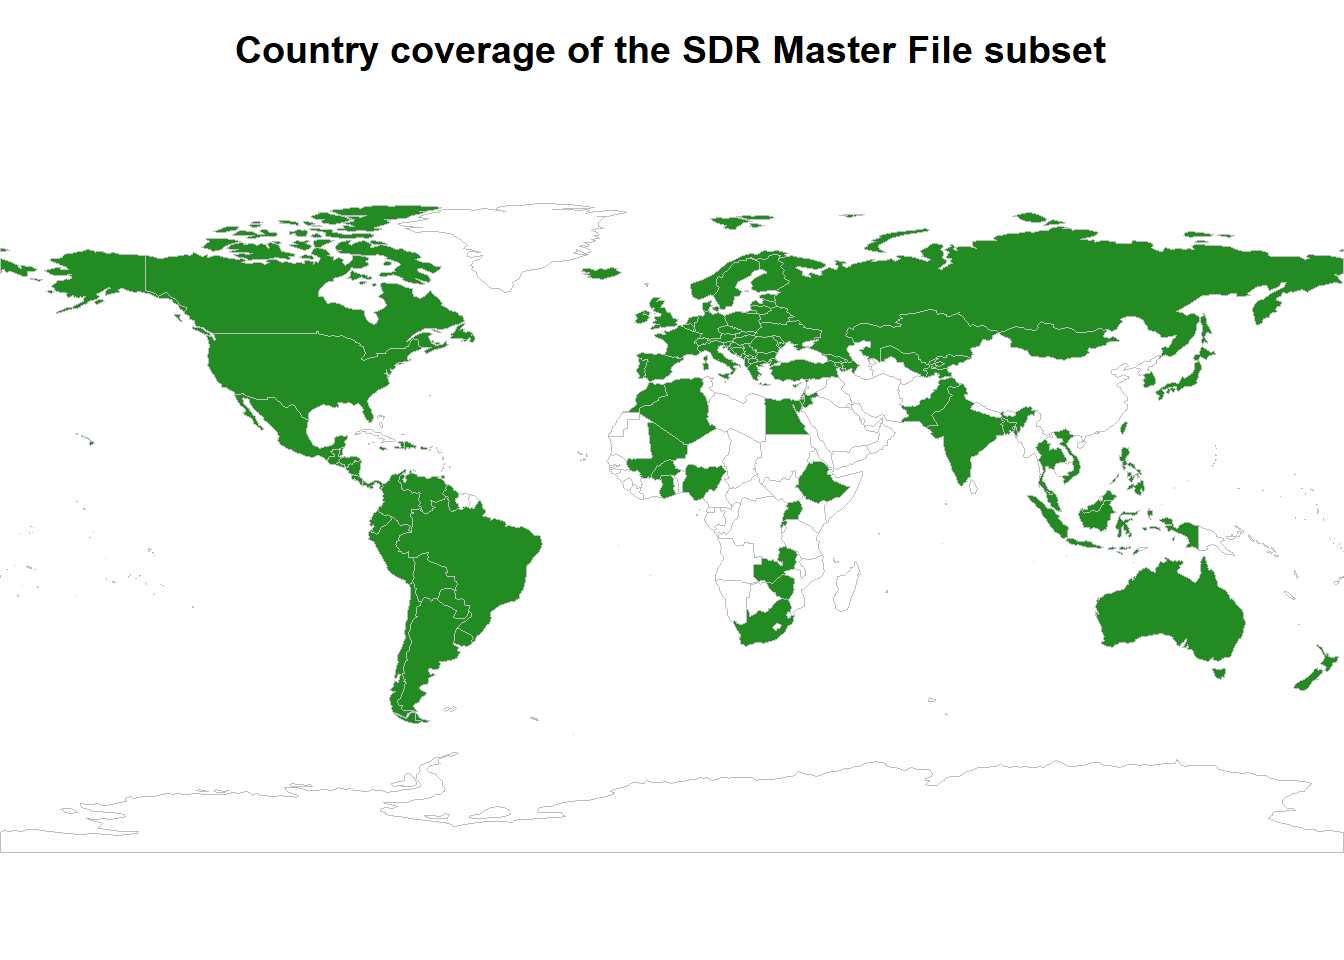
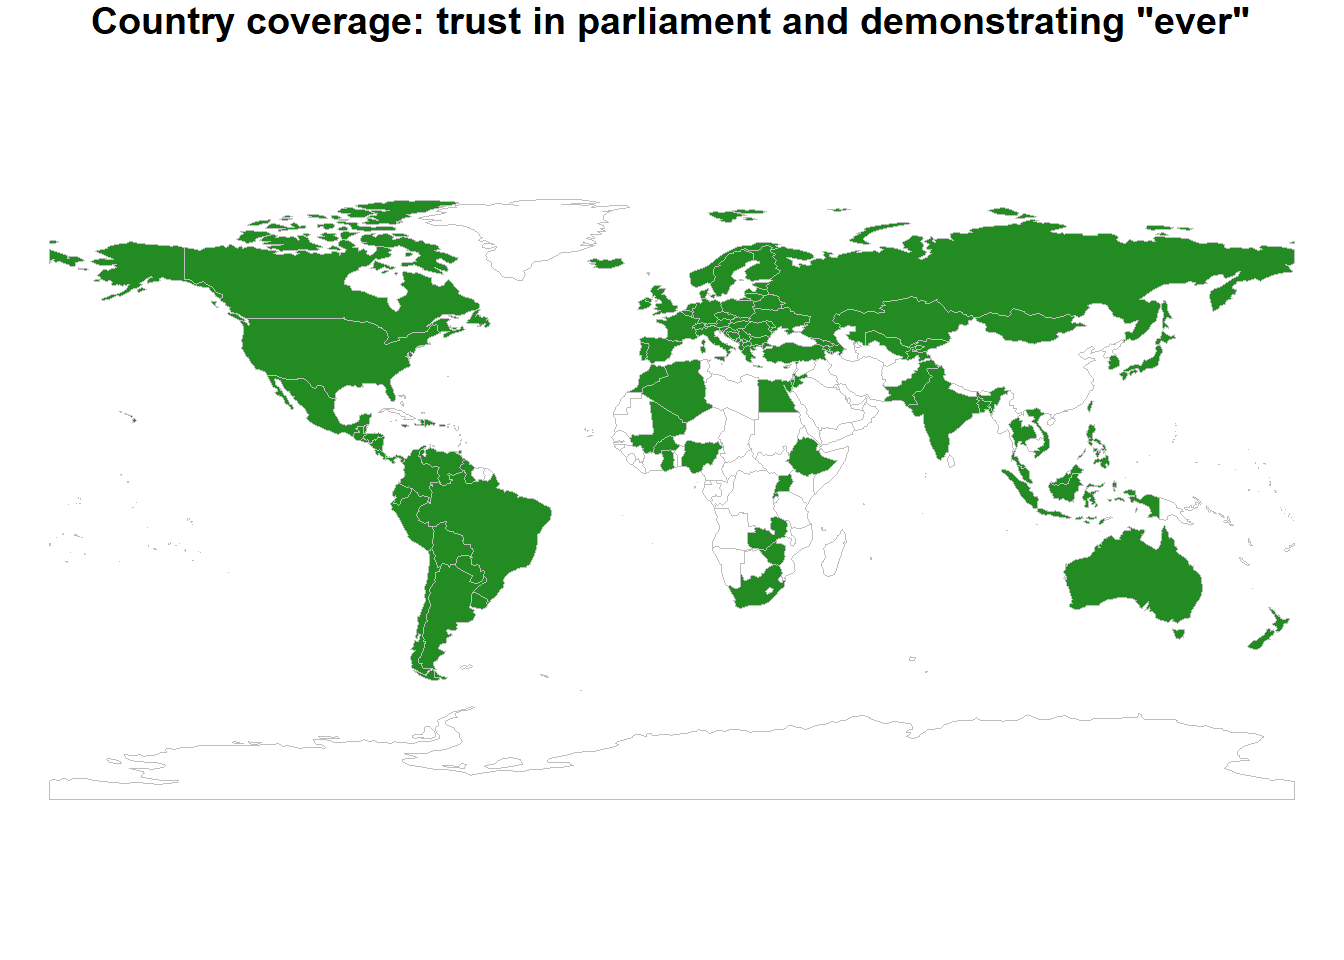
first sdr post 7

diff --git a/content/post/sdr-exploration.html b/content/post/sdr-exploration.html
@@ -612,7 +612,7 @@ N individuals
 </div>
 <div id="country-coverage-plot" class="section level3">
 <h3>Country coverage plot</h3>
-<p>The last thing I will do is to plot the country coverage of the Master File subset on the world map. As a reminder, this is the subset that contains surveys with all of the following variables: gender, age, education (completed levels of schooling years), rural residence, trust in parliament, and participation in demonstrations “ever”.</p>
+<p>The last thing I will do is to plot the country coverage of the Master File subset on the world map. As a reminder, this subset contains all surveys from the SDR Master File that have all of the following variables: gender, age, education (completed levels or schooling years), rural residence, trust in parliament, and participation in demonstrations “ever”.</p>
 <p>There are a few ways of doing this, one of which uses the <code>rworldmap</code> package. A small fix is necessary to deal with Kosovo, which has no ISO2 code assigned in the <code>rworldmap</code> data, but does have an ISO3 code (KOS). The SDR data use ISO2 codes, so it’s necessary to convert them to ISO3 (with just one line of code thanks to the <code>countrycode</code> package!).</p>
 <pre class="r"><code># data frame with unique country codes
 countries &lt;- data.frame(iso2 = unique(substr(master_select$t_country_l1u, 1, 2)), 
@@ -624,19 +624,21 @@ countries$is &lt;- 1
 countries$iso3 &lt;- countrycode(countries$iso2, &#39;iso2c&#39;, &#39;iso3c&#39;)
 countries$iso3[countries$iso2 == &quot;KS&quot;] &lt;- &quot;KOS&quot;
 
+# join the data to the map
 map &lt;- joinCountryData2Map(countries, nameJoinColumn=&quot;iso3&quot;, 
                                joinCode=&quot;ISO3&quot; )</code></pre>
 <pre><code>## 104 codes from your data successfully matched countries in the map
 ## 0 codes from your data failed to match with a country code in the map
 ## 139 codes from the map weren&#39;t represented in your data</code></pre>
-<pre class="r"><code>par(mai=c(0,0,0.5,0),xaxs=&quot;i&quot;,yaxs=&quot;i&quot;)
+<pre class="r"><code>par(mar = c(0,0,1,0))
 
+# plot the map
 mapCountryData( map, catMethod = &quot;categorical&quot;,
                 nameColumnToPlot=&#39;is&#39;, addLegend = FALSE,
                 numCats=2,
                 colourPalette = c(&quot;forestgreen&quot;, &quot;white&quot;),
                 missingCountryCol = &quot;white&quot;,
-                mapTitle = &quot;Country coverage of the SDR Master File subset&quot;)  </code></pre>
+                mapTitle = &#39;Country coverage: trust in parliament and demonstrating &quot;ever&quot;&#39;)          </code></pre>
 <p><img src="/post/sdr-exploration_files/figure-html/subset%20map-1.png" width="672" /></p>
 <p> <br />
  </p>

diff --git a/public/post/sdr-exploration/index.html b/public/post/sdr-exploration/index.html
@@ -858,7 +858,7 @@ N individuals
 </div>
 <div id="country-coverage-plot" class="section level3">
 <h3>Country coverage plot</h3>
-<p>The last thing I will do is to plot the country coverage of the Master File subset on the world map. As a reminder, this is the subset that contains surveys with all of the following variables: gender, age, education (completed levels of schooling years), rural residence, trust in parliament, and participation in demonstrations “ever”.</p>
+<p>The last thing I will do is to plot the country coverage of the Master File subset on the world map. As a reminder, this subset contains all surveys from the SDR Master File that have all of the following variables: gender, age, education (completed levels or schooling years), rural residence, trust in parliament, and participation in demonstrations “ever”.</p>
 <p>There are a few ways of doing this, one of which uses the <code>rworldmap</code> package. A small fix is necessary to deal with Kosovo, which has no ISO2 code assigned in the <code>rworldmap</code> data, but does have an ISO3 code (KOS). The SDR data use ISO2 codes, so it’s necessary to convert them to ISO3 (with just one line of code thanks to the <code>countrycode</code> package!).</p>
 <pre class="r"><code># data frame with unique country codes
 countries &lt;- data.frame(iso2 = unique(substr(master_select$t_country_l1u, 1, 2)), 
@@ -870,19 +870,21 @@ countries$is &lt;- 1
 countries$iso3 &lt;- countrycode(countries$iso2, &#39;iso2c&#39;, &#39;iso3c&#39;)
 countries$iso3[countries$iso2 == &quot;KS&quot;] &lt;- &quot;KOS&quot;
 
+# join the data to the map
 map &lt;- joinCountryData2Map(countries, nameJoinColumn=&quot;iso3&quot;, 
                                joinCode=&quot;ISO3&quot; )</code></pre>
 <pre><code>## 104 codes from your data successfully matched countries in the map
 ## 0 codes from your data failed to match with a country code in the map
 ## 139 codes from the map weren&#39;t represented in your data</code></pre>
-<pre class="r"><code>par(mai=c(0,0,0.5,0),xaxs=&quot;i&quot;,yaxs=&quot;i&quot;)
+<pre class="r"><code>par(mar = c(0,0,1,0))
 
+# plot the map
 mapCountryData( map, catMethod = &quot;categorical&quot;,
                 nameColumnToPlot=&#39;is&#39;, addLegend = FALSE,
                 numCats=2,
                 colourPalette = c(&quot;forestgreen&quot;, &quot;white&quot;),
                 missingCountryCol = &quot;white&quot;,
-                mapTitle = &quot;Country coverage of the SDR Master File subset&quot;)  </code></pre>
+                mapTitle = &#39;Country coverage: trust in parliament and demonstrating &quot;ever&quot;&#39;)          </code></pre>
 <p><img src="/post/sdr-exploration_files/figure-html/subset%20map-1.png" width="672" /></p>
 <p> <br />
  </p>
